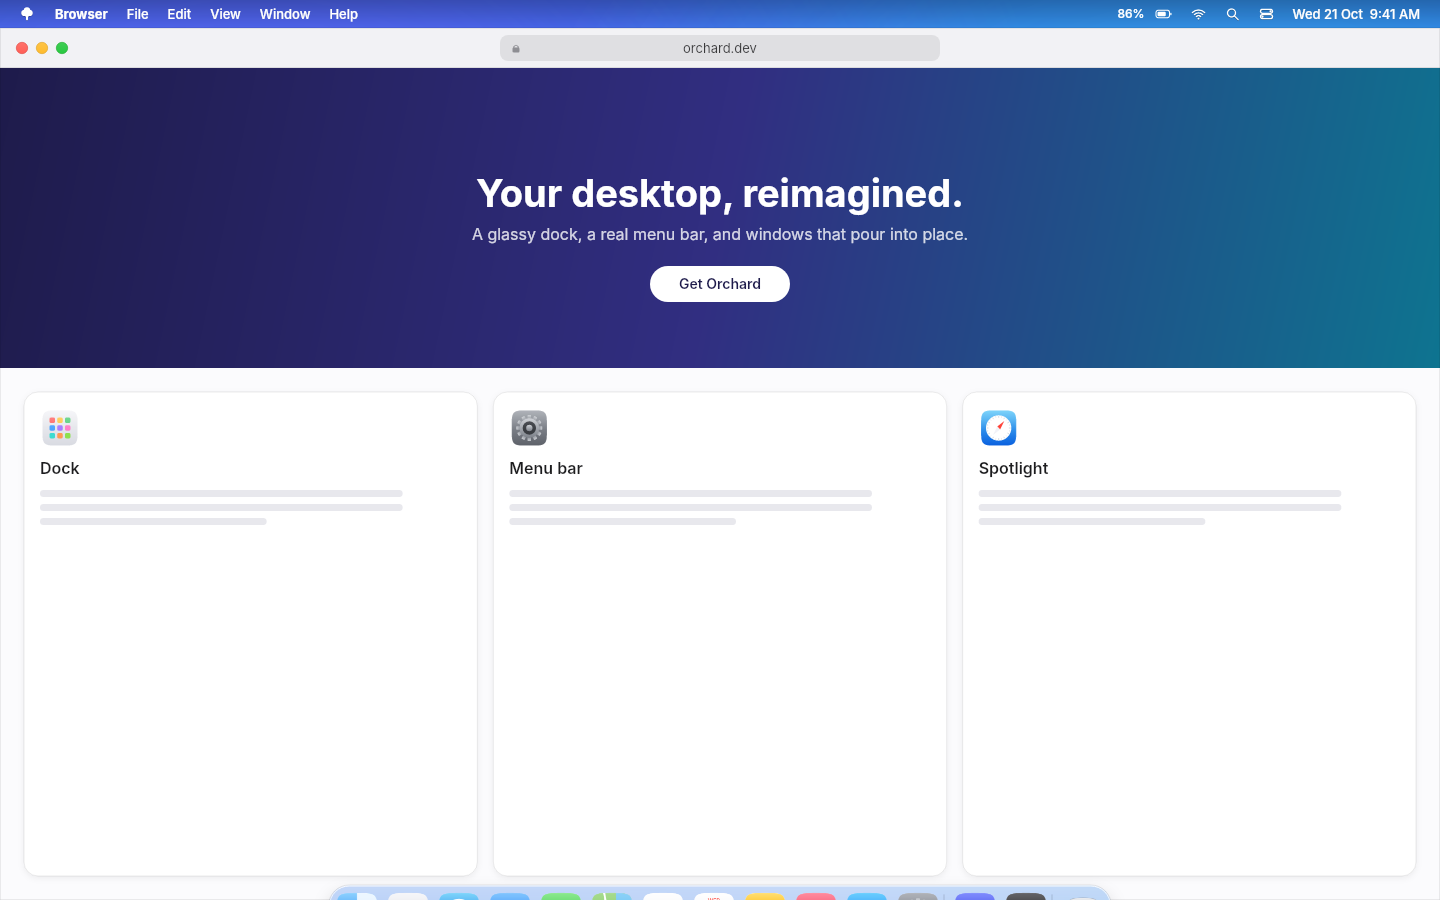
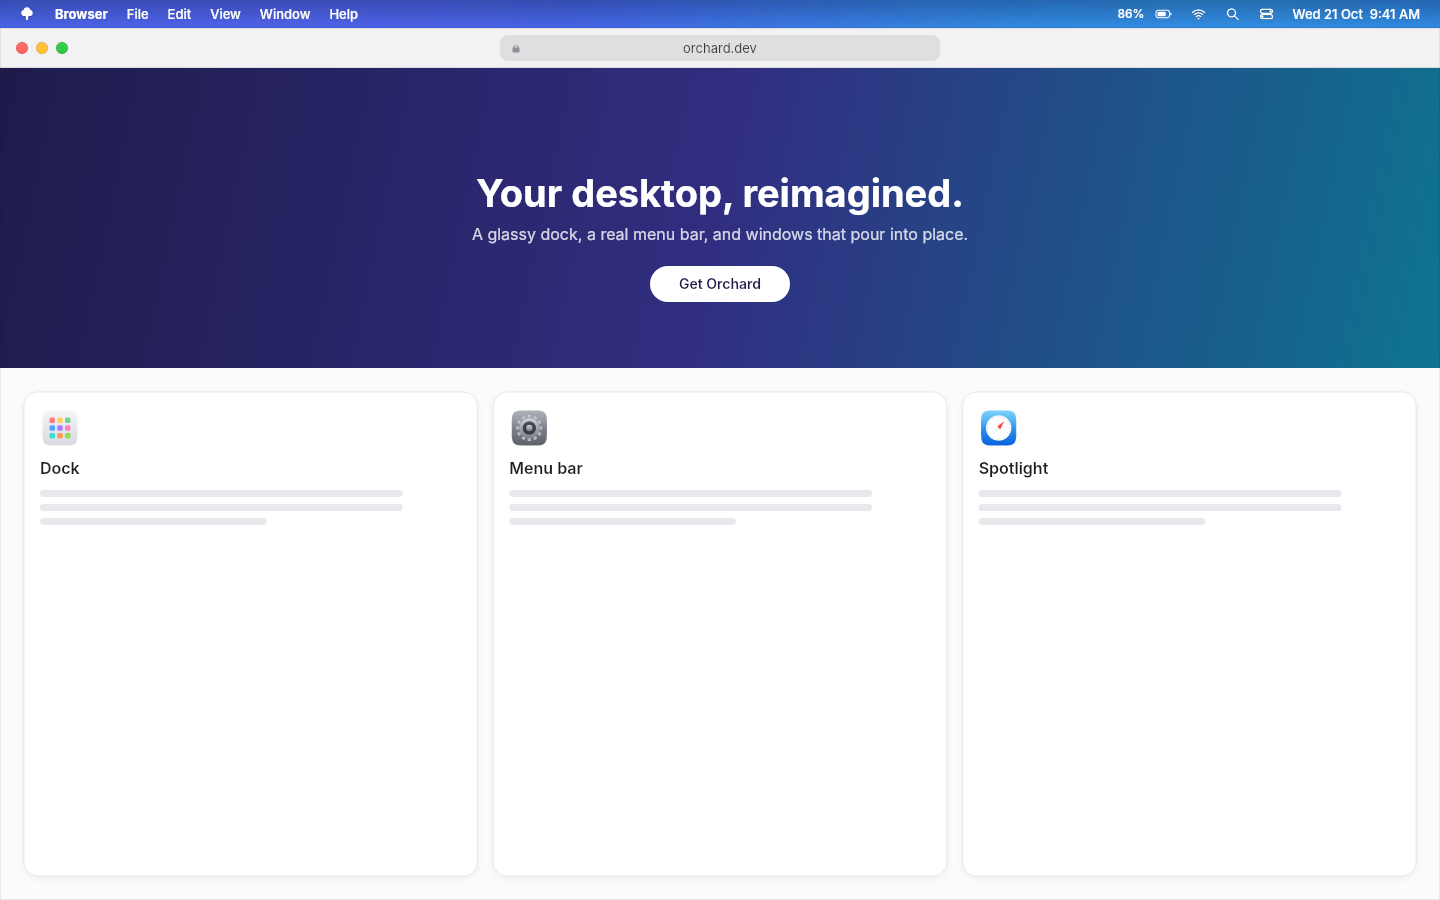
Clear (see-through) glass for the dock and menu bar
New GlassStyle setting, default Clear: the dock shelf and menu bar draw no
blurred backdrop and only a faint tint (white 9% / black 24%), so windows
and wallpaper behind show through sharply. They are defined by a sheen,
a soft inner edge glow and a diagonal specular rim, like macOS's clear
Liquid Glass. Frosted remains available in Settings. Menus, Control
Center, Spotlight and widgets stay frosted for legibility. Contrast
decisions (menu bar text, dock dots) use the tint actually in use.

Claude-Session: https://claude.ai/code/session_0183A4US3oh7osa1efwF164h

Changed region(s): [[0.2188, 0.9644, 0.7812, 1.0]]

diff --git a/src/Orchard/Rendering/Glass.cs b/src/Orchard/Rendering/Glass.cs
@@ -24,10 +24,25 @@ public static class Glass
     /// behind our shaped windows. Null when the wallpaper can't be read (then the tint is painted opaque instead).
     /// </summary>
     public static Bitmap? DesktopBackdrop { get; set; }
+
+    /// <summary>
+    /// "Clear" glass for the dock and menu bar: no blur and almost no tint, so whatever is behind shows through
+    /// sharply; the edge highlights alone make it read as a sheet of glass (macOS's clear Liquid Glass look).
+    /// </summary>
+    public static bool ClearChrome { get; set; } = true;
+
+    /// <summary>The tint the dock / menu bar actually use, for contrast decisions.</summary>
+    public static Color ChromeTint => ClearChrome ? Palette.ClearTint : Palette.GlassTint;
     public static PixelRect DesktopBackdropMonitor { get; set; }
 
-    public static void Draw(DrawingContext ctx, Visual owner, RoundedRect shape, bool strong = false, bool shadow = true, bool panel = false)
+    public static void Draw(DrawingContext ctx, Visual owner, RoundedRect shape, bool strong = false, bool shadow = true, bool panel = false, bool chrome = false)
     {
+        if (chrome && ClearChrome)
+        {
+            DrawClear(ctx, shape);
+            return;
+        }
+
         // No soft shadow on the real desktop: shell windows clip to their own shapes, so it would barely show, and
         // a large blurred shadow redrawn every animation frame is the single most expensive thing glass can do.
         if (shadow && !Palette.Solid)
@@ -115,6 +130,44 @@ public static class Glass
         double wall = sum / (buffer.Length / 4);
         double a = tint.A / 255.0, tintLum = (0.2126 * tint.R + 0.7152 * tint.G + 0.0722 * tint.B) / 255;
         return wall * (1 - a) + tintLum * a;
+    }
+
+    private static void DrawClear(DrawingContext ctx, RoundedRect shape)
+    {
+        ctx.DrawRectangle(Palette.Brush(Palette.ClearTint), null, shape);
+        var r = shape.Rect;
+        using (ctx.PushClip(shape))
+        {
+            // A light sheen across the top third, like light catching the upper surface.
+            ctx.DrawRectangle(new LinearGradientBrush
+            {
+                StartPoint = new RelativePoint(0, 0, RelativeUnit.Relative),
+                EndPoint = new RelativePoint(0, 1, RelativeUnit.Relative),
+                GradientStops =
+                {
+                    new GradientStop(Color.FromArgb(Palette.Dark ? (byte)0x18 : (byte)0x2A, 255, 255, 255), 0),
+                    new GradientStop(Color.FromArgb(0, 255, 255, 255), 0.4),
+                },
+            }, null, r);
+            // Soft brightening just inside the edge — the "thick glass" refraction cue.
+            ctx.DrawRectangle(null, new Pen(Palette.Brush(Color.FromArgb(Palette.Dark ? (byte)0x10 : (byte)0x1C, 255, 255, 255)), 5), shape.Deflate(2.5, 2.5));
+        }
+        // Thin dark outline for definition on bright backgrounds, then a specular rim: bright at the top-left and
+        // bottom-right, fading in between, as light wraps around a rounded glass edge.
+        ctx.DrawRectangle(null, new Pen(Palette.Brush(Color.FromArgb(Palette.Dark ? (byte)0x70 : (byte)0x26, 0, 0, 0)), 0.75), shape.Inflate(0.4, 0.4));
+        var rim = new LinearGradientBrush
+        {
+            StartPoint = new RelativePoint(0, 0, RelativeUnit.Relative),
+            EndPoint = new RelativePoint(1, 1, RelativeUnit.Relative),
+            GradientStops =
+            {
+                new GradientStop(Color.FromArgb(Palette.Dark ? (byte)0x90 : (byte)0xF0, 255, 255, 255), 0),
+                new GradientStop(Color.FromArgb(Palette.Dark ? (byte)0x18 : (byte)0x40, 255, 255, 255), 0.45),
+                new GradientStop(Color.FromArgb(Palette.Dark ? (byte)0x18 : (byte)0x40, 255, 255, 255), 0.7),
+                new GradientStop(Color.FromArgb(Palette.Dark ? (byte)0x60 : (byte)0xB0, 255, 255, 255), 1),
+            },
+        };
+        ctx.DrawRectangle(null, new Pen(rim, 1.2), shape.Deflate(0.6, 0.6));
     }
 
     private static void DrawSurface(DrawingContext ctx, RoundedRect shape, Color tint)

diff --git a/src/Orchard/Controls/MenuBarView.cs b/src/Orchard/Controls/MenuBarView.cs
@@ -119,14 +119,14 @@ public sealed class MenuBarView : Control
         {
             // On the real desktop windows can be dragged up under the bar, so it must not be see-through: frosted
             // wallpaper when we have it, otherwise an opaque bar.
-            if (Glass.DesktopBackdrop != null)
-                Glass.Draw(ctx, this, new RoundedRect(new Rect(Bounds.Size), 0), strong: false, shadow: false);
+            if (Glass.DesktopBackdrop != null || Glass.ClearChrome)
+                Glass.Draw(ctx, this, new RoundedRect(new Rect(Bounds.Size), 0), strong: false, shadow: false, chrome: true);
             else
                 ctx.DrawRectangle(Palette.Brush(Palette.Dark ? Color.FromArgb(0xF4, 0x1A, 0x1A, 0x1D) : Color.FromArgb(0xF0, 0xF4, 0xF4, 0xF6)), null, new Rect(Bounds.Size));
             ctx.DrawLine(new Pen(Palette.Brush(Palette.Dark ? Color.FromArgb(0x60, 0, 0, 0) : Color.FromArgb(0x26, 0, 0, 0)), 1),
                 new Point(0, Bounds.Height - 0.5), new Point(Bounds.Width, Bounds.Height - 0.5));
             // Translucent bar: like macOS, use white text when the wallpaper behind it is dark, even in light mode.
-            bool darkBehind = Palette.Dark || Glass.PerceivedLuminance(this, new Rect(Bounds.Size), Palette.GlassTint) is < 0.5;
+            bool darkBehind = Palette.Dark || Glass.PerceivedLuminance(this, new Rect(Bounds.Size), Glass.ChromeTint) is < 0.5;
             ink = darkBehind ? Colors.White : Color.FromRgb(0x1D, 0x1D, 0x1F);
             shadow = Colors.Transparent;
             highlight = darkBehind ? Color.FromArgb(0x38, 255, 255, 255) : Color.FromArgb(0x1C, 0, 0, 0);

diff --git a/src/Orchard/Model/Settings.cs b/src/Orchard/Model/Settings.cs
@@ -34,6 +34,14 @@ public enum Appearance
     Dark,
 }
 
+public enum GlassStyle
+{
+    /// <summary>See-through: no blur, faint tint, bright edges (default for the dock and menu bar).</summary>
+    Clear,
+    /// <summary>Frosted: the wallpaper behind is blurred and tinted.</summary>
+    Frosted,
+}
+
 public enum WidgetKind { Clock, Calendar, Weather, Battery, System }
 
 public sealed record PinnedApp(string Name, string Target, string? Icon = null, string? Arguments = null);
@@ -62,6 +70,8 @@ public sealed class OrchardSettings
     /// <summary>Hide the Windows taskbar while Orchard runs. It is always restored on exit, even after a crash.</summary>
     public bool HideWindowsTaskbar { get; set; } = true;
     public Appearance Appearance { get; set; } = Appearance.Auto;
+    /// <summary>Dock and menu bar material. Menus, Control Center and widgets are always frosted so text stays readable.</summary>
+    public GlassStyle Glass { get; set; } = GlassStyle.Clear;
 
     public bool ShowWidgets { get; set; } = true;
     public List<WidgetKind> Widgets { get; set; } = [WidgetKind.Clock, WidgetKind.Calendar, WidgetKind.Weather, WidgetKind.Battery, WidgetKind.System];

diff --git a/src/Orchard/Controls/DockControl.cs b/src/Orchard/Controls/DockControl.cs
@@ -277,11 +277,11 @@ public sealed class DockControl : Control
         var shape = new List<RoundedRect>();
 
         var shelf = new RoundedRect(layout.Shelf, Math.Min(22, ShelfHeight * 0.36));
-        Glass.Draw(ctx, this, shelf);
+        Glass.Draw(ctx, this, shelf, chrome: true);
         shape.Add(shelf);
 
         // Translucent light glass over a dark wallpaper reads dark: switch the dots and dividers to white, like macOS.
-        bool darkBehind = Palette.Dark || Glass.PerceivedLuminance(this, layout.Shelf, Palette.GlassTint) is < 0.5;
+        bool darkBehind = Palette.Dark || Glass.PerceivedLuminance(this, layout.Shelf, Glass.ChromeTint) is < 0.5;
         var separatorColor = darkBehind ? Color.FromArgb(0x40, 255, 255, 255) : Palette.Separator;
         var dotColor = darkBehind ? Color.FromArgb(0xE0, 255, 255, 255) : Color.FromArgb(0xC0, 0x1D, 0x1D, 0x1F);
 

diff --git a/src/Orchard/Shell/SettingsWindow.cs b/src/Orchard/Shell/SettingsWindow.cs
@@ -33,7 +33,8 @@ public sealed class SettingsWindow : Window
         body.Children.Add(new TextBlock { Text = "Orchard Settings", FontSize = 26, FontWeight = FontWeight.Bold });
 
         body.Children.Add(Section("Appearance",
-            Row("Theme", Combo(_s.Appearance, v => _s.Appearance = v, ("Match Windows", Appearance.Auto), ("Light", Appearance.Light), ("Dark", Appearance.Dark)))));
+            Row("Theme", Combo(_s.Appearance, v => _s.Appearance = v, ("Match Windows", Appearance.Auto), ("Light", Appearance.Light), ("Dark", Appearance.Dark))),
+            Row("Dock & menu bar glass", Combo(_s.Glass, v => _s.Glass = v, ("Clear (see-through)", GlassStyle.Clear), ("Frosted", GlassStyle.Frosted)))));
 
         body.Children.Add(Section("Dock",
             Row("Show the dock", Combo(_s.Dock, v => _s.Dock = v,

diff --git a/src/Orchard/Theme/Palette.cs b/src/Orchard/Theme/Palette.cs
@@ -50,6 +50,9 @@ public static class Palette
     public static Color GlassRimBottom => Dark ? Color.FromArgb(0x12, 0xFF, 0xFF, 0xFF) : Color.FromArgb(0x70, 0xFF, 0xFF, 0xFF);
     public static Color GlassOutline => Dark ? Color.FromArgb(0x99, 0x00, 0x00, 0x00) : Color.FromArgb(0x1C, 0x00, 0x00, 0x00);
 
+    /// <summary>Clear glass (dock and menu bar in the "Clear" style): barely tinted, nothing blurred behind it.</summary>
+    public static Color ClearTint => Dark ? Color.FromArgb(0x3C, 0x00, 0x00, 0x00) : Color.FromArgb(0x16, 0xFF, 0xFF, 0xFF);
+
     /// <summary>Frostier glass for panels that carry text over the wallpaper (widgets).</summary>
     public static Color GlassTintPanel => Dark ? Color.FromArgb(0xC8, 0x14, 0x14, 0x16) : Color.FromArgb(Solid ? (byte)0xD6 : (byte)0xA8, 0xF7, 0xF7, 0xF9);
 

diff --git a/src/Orchard/Shell/ShellHost.cs b/src/Orchard/Shell/ShellHost.cs
@@ -65,6 +65,7 @@ public sealed class ShellHost : IShellCommands, IDisposable
         _monitor = platform.PrimaryMonitor;
         // Frosted glass from the user's own wallpaper; if it can't be read, fall back to denser solid glass.
         LoadWallpaperBackdrop();
+        Glass.ClearChrome = settings.Glass == GlassStyle.Clear;
         Palette.Dark = settings.Appearance switch { Appearance.Dark => true, Appearance.Light => false, _ => platform.DarkMode };
         MenuCatalog.WindowTitle = Native.GetText;
 

diff --git a/src/Orchard/Preview/DesktopScene.cs b/src/Orchard/Preview/DesktopScene.cs
@@ -40,6 +40,7 @@ public sealed class DesktopScene : Canvas, IShellCommands
     public DesktopScene(PixelSize screen, OrchardSettings settings, double renderScale = 1)
     {
         _settings = settings;
+        Glass.ClearChrome = settings.Glass == GlassStyle.Clear;
         ScreenWidth = screen.Width;
         ScreenHeight = screen.Height;
         Width = ScreenWidth;

diff --git a/tests/Orchard.Tests/LogicTests.cs b/tests/Orchard.Tests/LogicTests.cs
@@ -285,6 +285,7 @@ public class SettingsTests
         Assert.Equal(DockVisibility.HideWhenOverlapped, s.Dock);
         Assert.Equal(MenuBarVisibility.HideWhenMaximized, s.MenuBar);
         Assert.False(s.TrafficLights);
+        Assert.Equal(GlassStyle.Clear, s.Glass);
         Assert.True(s.HideWindowsTaskbar);
     }
 }

diff --git a/README.md b/README.md
@@ -40,6 +40,7 @@ the genie minimize effect, Spotlight, Launchpad and Control Center.
 | **Control Center** | Real volume and laptop-brightness sliders, a real dark mode toggle, and Lock. Wi-Fi, Bluetooth, Airplane, Focus and Cast open the matching Settings page, because Windows doesn't let normal apps flip those radios. |
 | **Widgets** | Clock, calendar, weather, battery and system (CPU/RAM) widgets sit on the desktop beneath your windows. Weather comes from Open-Meteo (free, no account) once you set `WeatherCity`. Right-click a widget to remove it. |
 | **Dark mode** | Dock, menus, Control Center, Spotlight, Launchpad and widgets all switch to near-black glass, and the switch happens live. By default it follows the Windows light/dark setting. Set `"Appearance"` to force one, or use the Dark Mode tile in Control Center. |
+| **Clear glass** | By default the dock and menu bar are clear, see-through glass, like macOS's clear Liquid Glass: no blur and a barely-there tint, with bright edge highlights that make them read as glass. Choose **Frosted** in Settings for the blurred look. Menus, Control Center and widgets stay frosted so text is readable. |
 | **Glass look** | The compositor blurs whatever is behind each surface, with a tinted, rim-lit glass layer painted over it. Light and dark appearance are both supported. |
 
 ## Install
@@ -95,6 +96,7 @@ Everything is stored in `%APPDATA%\Orchard\settings.json`, which you can also ed
   "TrafficLightExclusions": [],        // e.g. ["chrome.exe"] to keep an app's own buttons in that spot
   "HideWindowsTaskbar": true,
   "Appearance": "Auto",                // Auto (follow Windows) | Light | Dark
+  "Glass": "Clear",                    // dock & menu bar: Clear (see-through) | Frosted
   "ShowWidgets": true,
   "Widgets": ["Clock", "Calendar", "Weather", "Battery", "System"],
   "WeatherCity": "London",             // empty = the weather widget asks you to set one
